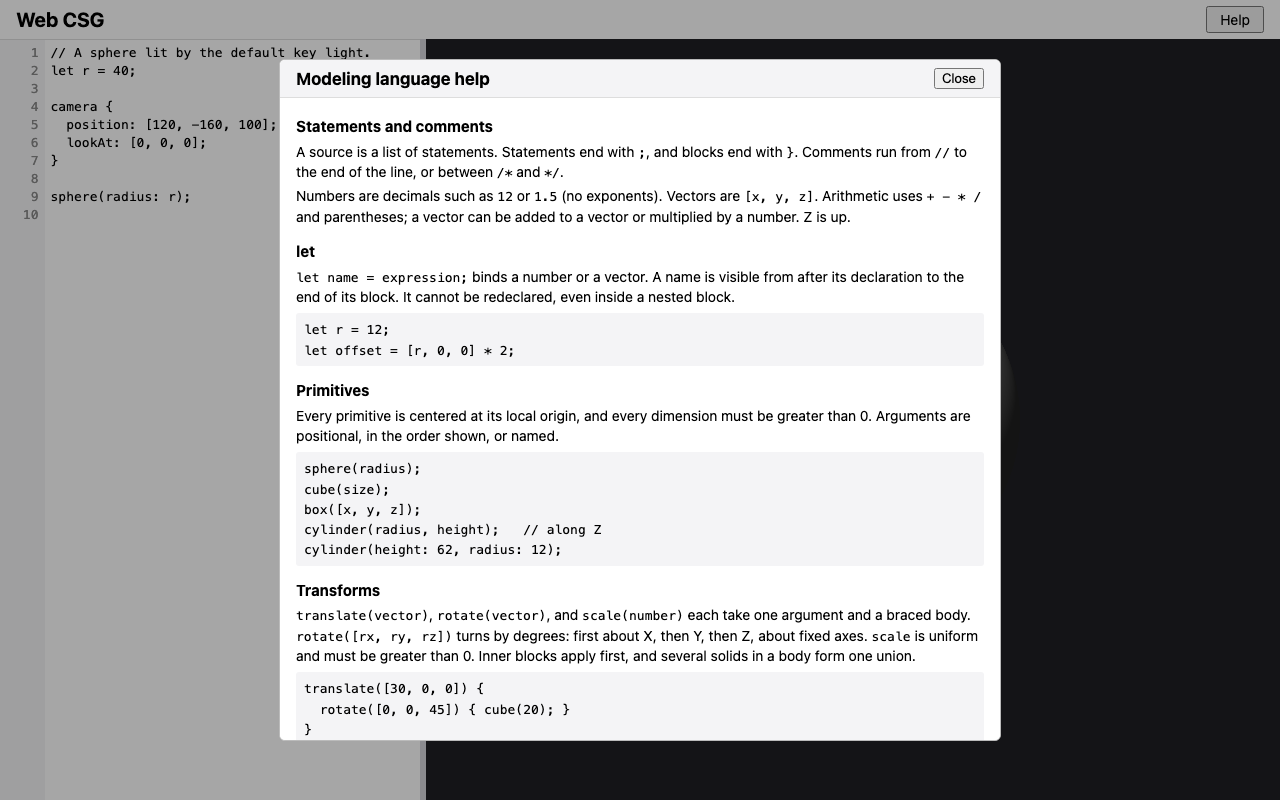
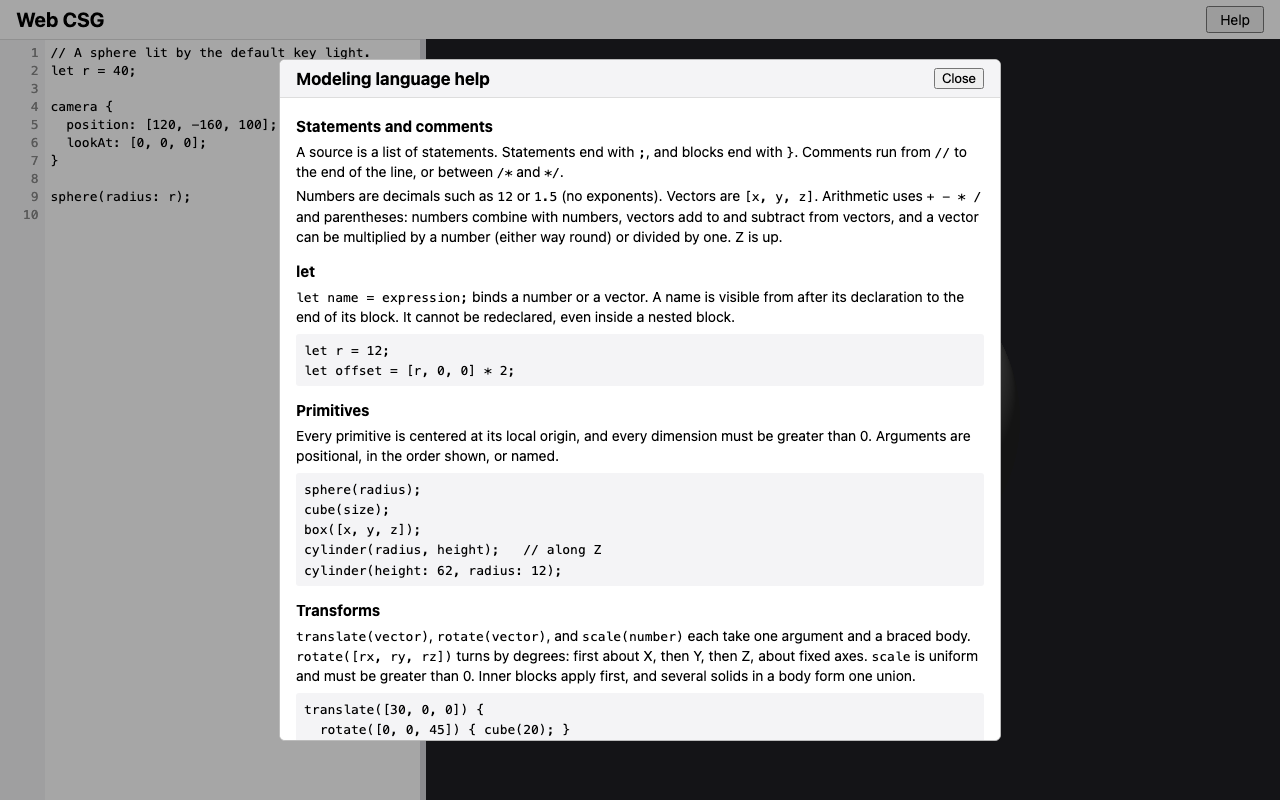
Backlog close-out: fix Critic round 2 (Esc then Shift+Tab)
- e2e: Esc, then Shift+Tab, leaves the editor with the text unchanged,
  on all three engines; seen to fail M4 (Shift cancels the escape) and
  M5 (the escape applies only without Shift).
- Spec and design D-3: a modifier key pressed on its own does not cancel
  the escape; an Esc then Shift+Tab scenario.
- Re-captured help.png (the full arithmetic rule); capture.mjs comment
  and the README coverage row corrected.

Claude-Session: https://claude.ai/code/session_01Xroe23ucMrSAqxRXTR7e2R

Changed region(s): [[0.2188, 0.25, 0.7812, 0.9375]]

diff --git a/e2e/editor-preview.spec.js b/e2e/editor-preview.spec.js
@@ -183,6 +183,15 @@ test.describe('Tab indentation', () => {
     if (browserName !== 'webkit') expect(undoShiftTab).toBe(DEFAULT_SOURCE + 'x\n  ');
   });
 
+  test('Esc, then Shift+Tab, leaves the editor with the text unchanged', async ({ page }) => {
+    // Shift pressed on its way to Shift+Tab must not cancel the escape (WCAG 2.1.2).
+    await setSource(page, '  ab', 4);
+    await page.keyboard.press('Escape');
+    await page.keyboard.press('Shift+Tab');
+    expect(await focusedId(page)).not.toBe('source');
+    await expect(page.locator('#source')).toHaveValue('  ab');
+  });
+
   test('another key after Esc cancels the escape, so Tab indents again', async ({ page }) => {
     await setSource(page, 'ab', 2);
     await page.keyboard.press('Escape');

diff --git a/docs/progress/backlog-closeout/README.md b/docs/progress/backlog-closeout/README.md
@@ -53,7 +53,7 @@ factor 1):
 | Capability (delta spec) | Tests |
 | --- | --- |
 | `dev-server` | `test/serve.test.js`: dot-paths get 404, including percent-encoded forms; the CLI works through a symlinked path under `--preserve-symlinks-main`. The existing symlink and port tests still pass |
-| `editor-preview`: Tab indentation | `test/ui/indent.test.js` covers: Tab with no selection and with a one-line selection; a multi-line selection, where the selection moves with its text; the column-1 boundary; Shift+Tab with 0–3 leading spaces and across lines; the caret inside the removed spaces. `e2e/editor-preview.spec.js`, on all three engines, covers: Tab inserts two spaces with focus kept; every selected line is indented; Shift+Tab; Esc then Tab leaves the editor with the text unchanged; a rebuild follows; undo matches undo after typed spaces, and is exactly one step in Chromium and Firefox |
+| `editor-preview`: Tab indentation | `test/ui/indent.test.js` covers: Tab with no selection and with a one-line selection; a multi-line selection, where the selection moves with its text; the column-1 boundary; Shift+Tab with 0–3 leading spaces and across lines; the caret inside the removed spaces. `e2e/editor-preview.spec.js`, on all three engines, covers: Tab inserts two spaces with focus kept; every selected line is indented; Shift+Tab; Esc then Tab, and Esc then Shift+Tab, leave the editor with the text unchanged; another key after Esc, and leaving the editor after Esc, cancel the escape; a rebuild follows; undo after Tab matches undo after typed spaces, and undo after Shift+Tab on a line of only spaces matches undo after two Backspaces, each exactly one step in Chromium and Firefox |
 | `editor-preview`: Page layout (Help button) | `e2e/editor-preview.spec.js`: the header has a visible, keyboard-focusable Help button |
 | `language-help` | `test/ui/help-content.test.js` covers: every reserved word (from `RESERVED_WORDS`) appears; the example compiles and renders; every topic has a section, with the rotation convention, the multi-child difference, and the defaults; backticks are balanced. `e2e/help.spec.js`, on all three engines, covers: opening with the keyboard, where focus moves into the dialog and the title and every topic heading show; Esc, which returns focus to the Help button; Close; and that the source, caret, and rebuild count are unchanged |
 
@@ -135,6 +135,32 @@ Chromium, Firefox, and WebKit, with a baseline of 54/54.
 
 Gate after the fixes: `npm run check < /dev/null` in the working tree exits
 0, with `node --test` at 286/286 and Playwright at 105/105.
+
+## Critic round 2: `[REJECTED]`, and fixes
+
+The Critic reviewed `20cf222` and ran the gates itself (286/286, 105/105).
+It re-ran R1–R3 and its round 1 pins: P1, F1, and F2 pass on all three
+engines, and P1b fails on WebKit only, as D23 (d) allows. The round 1 fixes
+hold. It rejected the change for one test gap.
+
+| Finding | Fix |
+| --- | --- |
+| Test gap: no test pressed Esc then Shift+Tab. Dropping the modifier exemption (so Shift cancels the escape), or letting the escape apply only without Shift, passed the whole suite, and either traps keyboard users (WCAG 2.1.2) | `Esc, then Shift+Tab, leaves the editor with the text unchanged`, on all three engines |
+| Low: the spec said "any other key" cancels the escape, which literally includes Shift | The delta spec and design D-3 now say that a modifier key pressed on its own does not. The spec gains an Esc then Shift+Tab scenario |
+| Low: `help.png` still showed the old arithmetic wording | Re-captured |
+| Informational: a `capture.mjs` comment said "Tab twice"; the coverage row lacked the new tests | Both corrected |
+
+Seen to fail, in a scratch copy of the working tree with `node_modules`
+linked in. Each run covered `e2e/editor-preview.spec.js` on Chromium,
+Firefox, and WebKit, with a baseline of 57/57.
+
+| Break | Tests that failed |
+| --- | --- |
+| M4: Shift cancels the escape (the modifier exemption dropped) | 3/57: `Esc, then Shift+Tab, leaves the editor with the text unchanged`, on each engine |
+| M5: the escape applies only without Shift | 3/57: the same test, on each engine |
+
+Gate after the fixes: `npm run check < /dev/null` in the working tree exits
+0, with `node --test` at 286/286 and Playwright at 108/108.
 
 ## Manual Safari smoke check
 

diff --git a/openspec/changes/backlog-closeout/specs/editor-preview/spec.md b/openspec/changes/backlog-closeout/specs/editor-preview/spec.md
@@ -19,7 +19,8 @@ Focus SHALL stay in the text area after an indentation edit.
 Pressing Esc in the text area SHALL make the next Tab or Shift+Tab move
 focus as the browser normally does, without editing, so keyboard users are
 never trapped (WCAG 2.1.2). Any other key, or leaving the text area, cancels
-this.
+this; a modifier key (Shift, Control, Alt, or Meta) pressed on its own does
+not, so Esc then Shift+Tab also moves focus.
 
 Indentation edits SHALL be ordinary edits:
 - they trigger the rebuild rule in `live-rebuild`;
@@ -38,6 +39,10 @@ Indentation edits SHALL be ordinary edits:
 #### Scenario: Shift+Tab removes up to two leading spaces
 - **WHEN** the caret is on a line that starts with three spaces, and Shift+Tab is pressed
 - **THEN** the line starts with one space
+
+#### Scenario: Esc, then Shift+Tab, also leaves the editor
+- **WHEN** the text area has focus, Esc is pressed, and then Shift+Tab is pressed
+- **THEN** focus moves to the previous focusable element on the page, and the source text is unchanged
 
 #### Scenario: Esc, then Tab, leaves the editor
 - **WHEN** the text area has focus, Esc is pressed, and then Tab is pressed

diff --git a/openspec/changes/backlog-closeout/tasks.md b/openspec/changes/backlog-closeout/tasks.md
@@ -89,3 +89,10 @@
 - [x] 8.3 e2e: the Esc escape is cancelled by another key (Esc, ArrowLeft, Tab indents) and by leaving the editor (Esc, blur, refocus, Tab indents)
 - [x] 8.4 Document drift: tasks 4.4, the design risks, the proposal's help-content and CONSTRAINTS lines, and the README's fresh-checkout row. The help text now states the full arithmetic rule
 - [ ] 8.5 Seen to fail for the new tests; the full gate and a fresh clone; the README Critic round 1 section
+
+## 9. Critic round 2 fixes
+
+- [x] 9.1 e2e: Esc, then Shift+Tab, leaves the editor with the text unchanged, on all three engines
+- [x] 9.2 The delta spec and design D-3: a modifier key pressed on its own does not cancel the escape; an Esc then Shift+Tab scenario
+- [x] 9.3 The `capture.mjs` comment ("Tab once"), and the README coverage row
+- [ ] 9.4 Seen to fail (M4: Shift cancels the escape; M5: the escape applies only without Shift); re-capture `help.png`; the full gate and a fresh clone; the README round 2 section

diff --git a/openspec/changes/backlog-closeout/design.md b/openspec/changes/backlog-closeout/design.md
@@ -83,7 +83,9 @@ Shift+Tab only when no other modifier is held.
   recorded below.
 - **The Esc escape:** Esc sets an `escapeArmed` flag. The next Tab or
   Shift+Tab is not intercepted, so the browser moves focus, and the flag
-  clears. Any other key, or `blur`, clears it.
+  clears. Any other key, or `blur`, clears it. A modifier key (Shift,
+  Control, Alt, or Meta) pressed on its own does not, so the Shift of
+  Shift+Tab keeps the escape armed (Critic round 2).
 
 *Alternative:* insert a literal tab. The owner chose two spaces, so
 diagnostic columns and the visual layout agree.
